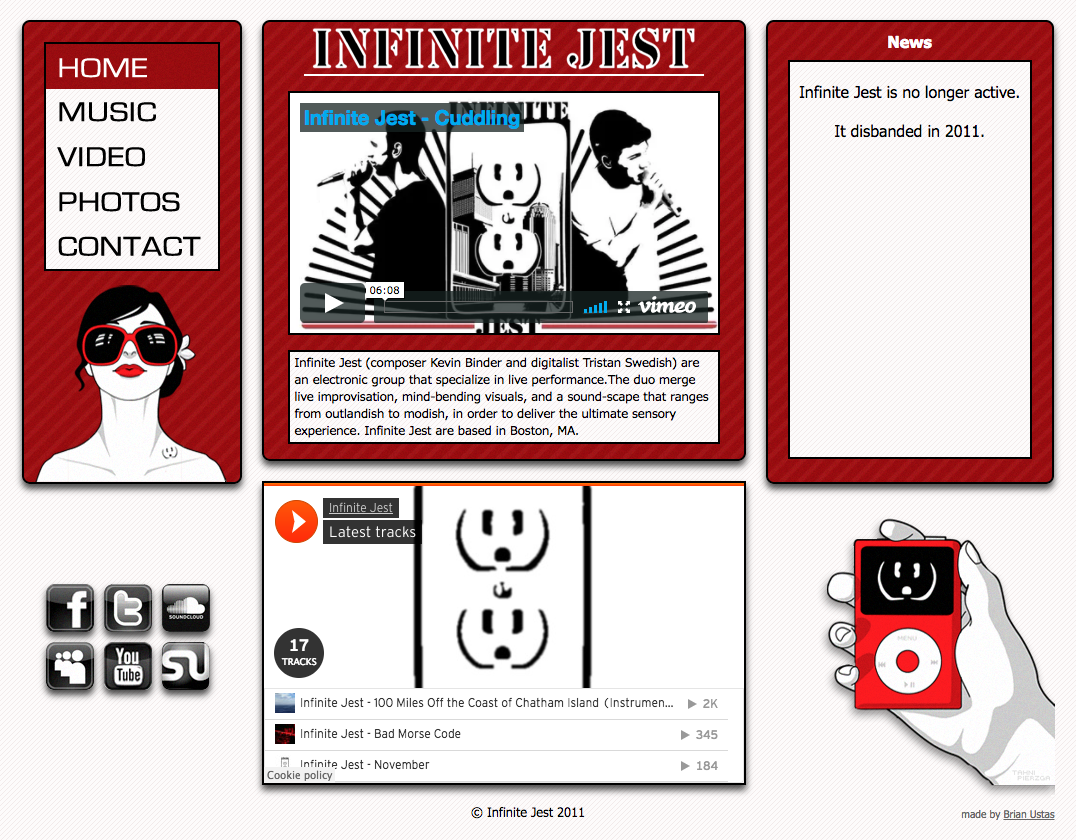
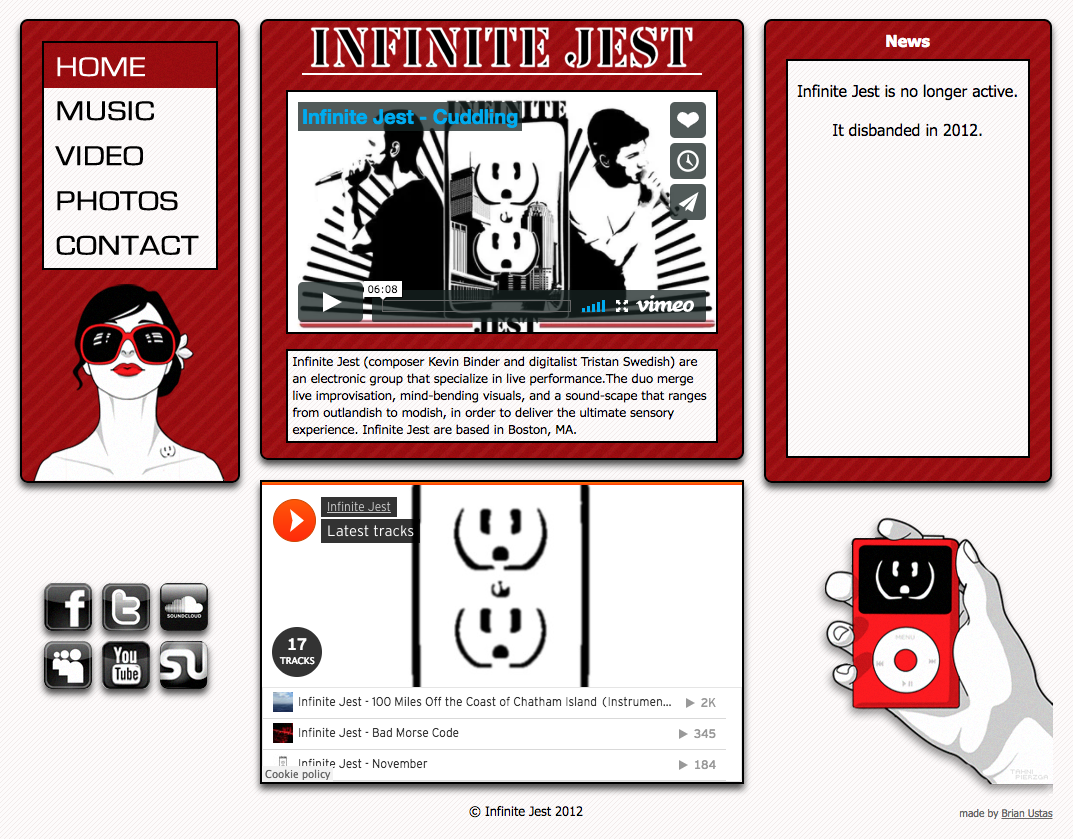
Disbanded in 2012.

diff --git a/public/index.html b/public/index.html
@@ -102,14 +102,14 @@
                         <h1>News</h1>
                         <div id="facebookFeed">
                           <p>Infinite Jest is no longer active.</p>
-                          <p>It disbanded in 2011.</p>
+                          <p>It disbanded in 2012.</p>
                         </div>
                     </div>
                 </div>
             </div>
             <div id="ipodHandImg"></div>
             <div id="footer">
-                <span>&copy; Infinite Jest 2011</span>
+                <span>&copy; Infinite Jest 2012</span>
                 <div>made by <a href="http://brianustas.com">Brian Ustas</a></div>
             </div>
         </div>
